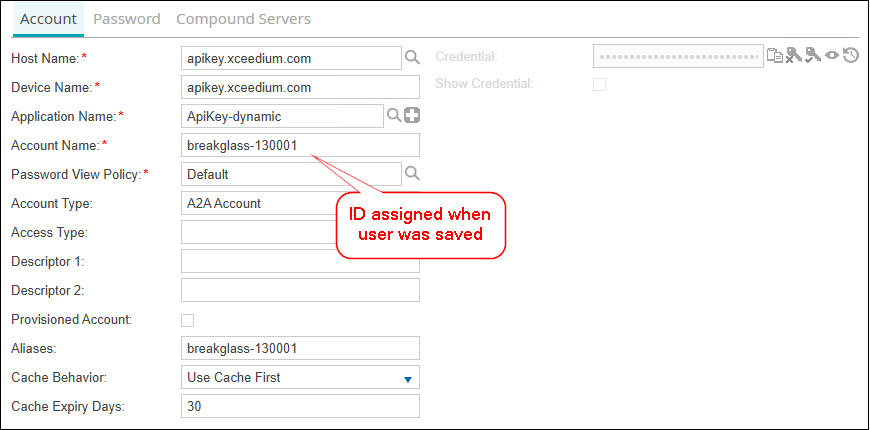
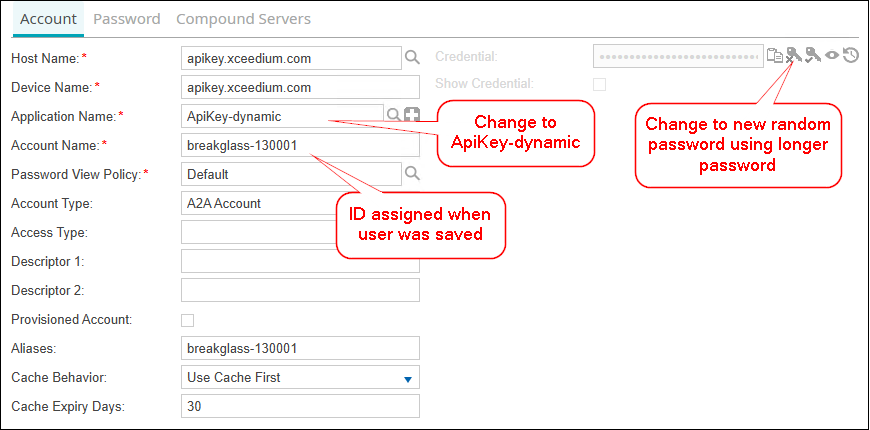
docs

diff --git a/docs/PAMUser-Breakglass.md b/docs/PAMUser-Breakglass.md
@@ -1,24 +1,38 @@
 # PAM User for Breakglass
 
+When using the `PAM User` connector for PAM users on one PAM instance it can be considered to create a breakglass account, where the password for a PAM administrator is stored in a local vault. The password is used as last resort if other PAM users are blocked and not able to login to PAM. 
 
 ![PAM User for Breakglass](/docs/images/PAMUser-Breakglass.png)
 
-See the repo [Breakglass](https://github.com/pam-exchange/Breakglass) for details.
+More details about breakglass scenarios and how it can be used is available in the repo [Breakglass](https://github.com/pam-exchange/Breakglass).
 
+In PAM the password update for PAM users is using the API. Main reason is that with the API there is an option to change the password without the user being required to change the password at next login. When using the CLI such an option is not available and a user would be required to change the password at next login.
+
+When using the API it is required to define an ApiKey and associate it with the PAM user.
 
 # PAM setup
 
 ## Global Settings
 
+An important update is the password length for PAM users. Default is 16 characters, which is insufficient for the passwords generated by PAM. Update the Flobal Settings and change the password length to 72 characters (maximum length).
+
 ![Password Length for PAM Users](/docs/images/GlobalSettings.png)
 
 ## PAM User (Login)
 
+The users being managed by PAM is in the example a Global Administrator. It is possible to define other roles and permissions for the user. If so, the ApiKey associated with the PAM user must have permissions to list and search target accounts and target servers. It is possible to define a target group with a limited view of target accounts. This is not used in the example here.
+
 ![PAM User - Basic Info](/docs/images/BG-User-1.png)
+
+The role for the PAM user in the example is a `Global Administrator`. 
 
 ![PAM User - Roles](/docs/images/BG-User-2.png)
 
+A `Global Administrator` must also have a Credential Managemnt Group associated. 
+
 ![PAM User - Credential Manager Groups](/docs/images/BG-User-3.png)
+
+Finally, for the user define an ApiKey. Initially when it is created the ID is zero (0). When the user is saved the ApiKey is created as a target account and the ID will change to a different value
 
 ![PAM User - ApiKey](/docs/images/BG-User-4.png)
 
@@ -26,33 +40,74 @@ See the repo [Breakglass](https://github.com/pam-exchange/Breakglass) for detail
 
 ## ApiKey
 
+The ApiKey created when the user is created is a standard ApiKey. In the example here, the length and age of teh ApiKey is updated, such that it is automatically updated when it reaches a defined age.
+
+The ApiKey is used when the `PAM User` connector is requesting a password update for a PAM user.
+
 ### ApiKey - Password Composition Policy
+
+The PCP used for the of ApiKey used here is dynamic and will update when the age reaches 1 day. A different schedule can be used.
 
 ![PCP - ApiKey Dynamic](/docs/images/PCP-ApiKey-dynamic.png)
 
 ### ApiKey - TargetApplication
 
+It is important to differentiate a standard ApiKey with the dynamic ApiKey used here. A new target application `ApiKey-Dynamic` is created using the PCP with higher length and a age limit.
+
 ![TargetApplication - ApiKey Dynamic](/docs/images/BG-TargetApplication-ApiKey.png)
 
 ### ApiKey - TargetAccount
 
+Finally, for the ApiKey the internal ID is added to the namge used when the PAM user was created. Identify the correct target account and change the target application to `ApiKey-dynamic`.
+
 ![TargetAccount - ApiKey](/docs/images/BG-TargetAccount-ApiKey.png)
 
+When updating the target account for the ApiKey verify that it is synchronizing with PAM and that a new random password is generated with the length defined in the PCP.
 
 ## PAM User (Managed)
 
+The PAM user is created as a user object. Create a target application and account using the same username as for the PAM user. 
+
 ## PAM User - Password Composition Policy
+
+Create a PCP used for new passwords generated by the `PAM User` connector. If the target account is used for breakglass purposes, it is important that there is no age enforcemwent defined in the PCP.
 
 ![PCP - PAM User](/docs/images/PCP-PAMUser-Passwords.png)
 
 ### PAMUser - TargetApplication
 
+The PAM User is using a target account existing on a target server, which is the PAM system itself. If using a PAM cluster the target server used here is a member of the primary site.
+
+Cerate the target application using the PCP created for PAM Users.
+
 ![TargetApplication - PAM User](/docs/images/BG-TargetApplication-User-1.png)
+
+Use defaults for the tab `PAM User`. The communication path from TCF where the connector is running to PAM should be very good. 
+
 ![TargetApplication - PAM User](/docs/images/BG-TargetApplication-User-2.png)
+
+
+In the tab `PAM User (remote)` verify that the checkbox `PAM is remote` is unchecked.
+
 ![TargetApplication - PAM User](/docs/images/BG-TargetApplication-User-3.png)
+
 
 ### PAMUser - TargetAccount
 
+Finally, create a target account using the account name matching the PAM User name. Create new random value for the password. 
+
 ![TargetAccount - PAM User](/docs/images/BG-TargetAccount-User-1.png)
+
+In the tab `Password` change the synchronize setting to update both PAM and end-point.
+
+In the tab `PAM User` Set the account type to `PAM User` and use the ApiKey defined when the PAM user was created as the master account.
+
 ![TargetAccount - PAM User](/docs/images/BG-TargetAccount-User-2.png)
+
+That's about it. Saving the target account will update the password for the PAM user to a new random value.
+
+
+# Error handling
+
+If the API call to update the PAM user is failing the API return code is visible in the `$CATALINA_HOME/logs/cataline.log` on the TCF server. 
 
